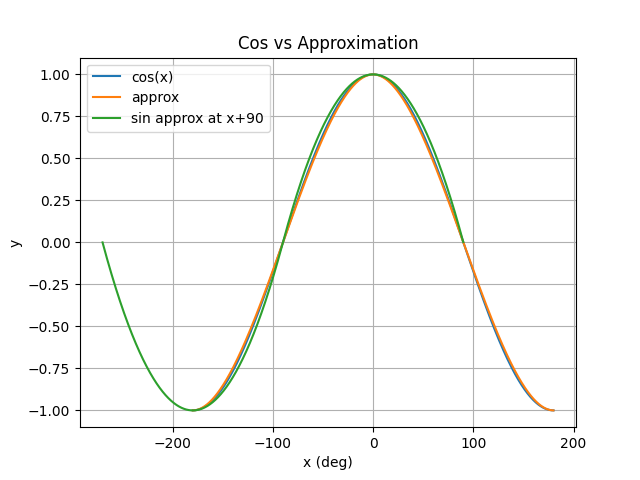
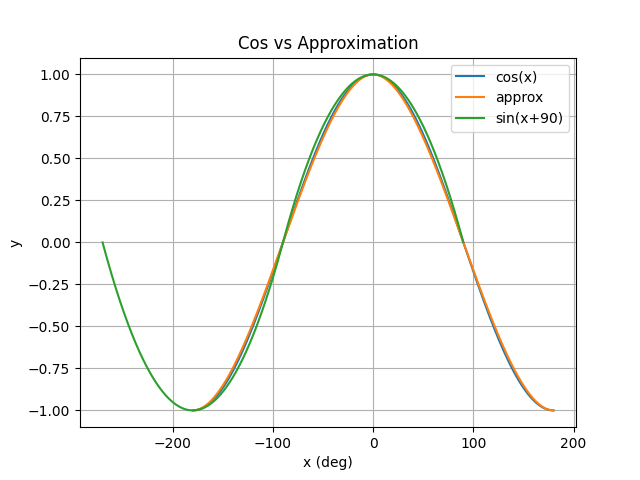
Fix typos

Changed region(s): [[0.125, 0.125, 0.4375, 0.2812], [0.6875, 0.125, 0.9062, 0.2812]]

diff --git a/Sinusoidal Approximation/docs/graph.py b/Sinusoidal Approximation/docs/graph.py
@@ -25,7 +25,7 @@ cos_approx = pow(t2/180, 2)*(4*abs(t2/180) - 6) + 1
 fig2, ax2 = plt.subplots()
 ax2.plot(t2, cos, label="cos(x)")
 ax2.plot(t2, cos_approx, label="approx")
-ax2.plot(t2-90, sin_approx, label="sin approx at x+90")
+ax2.plot(t2-90, sin_approx, label="sin(x+90)")
 ax2.set(xlabel='x (deg)', ylabel='y',
         title='Cos vs Approximation')
 ax2.set_ybound(-1.1, 1.1)
